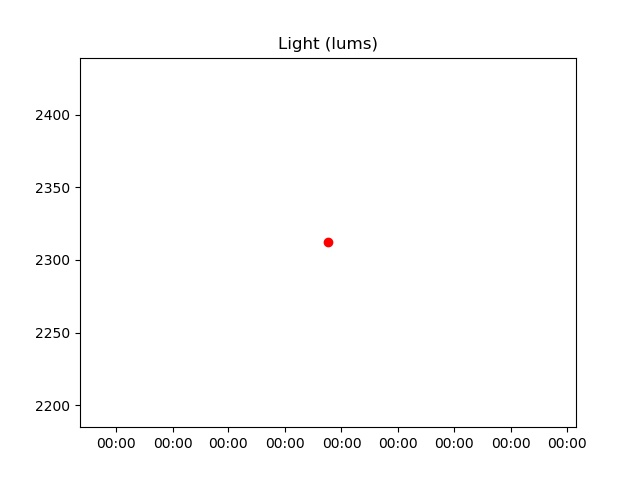
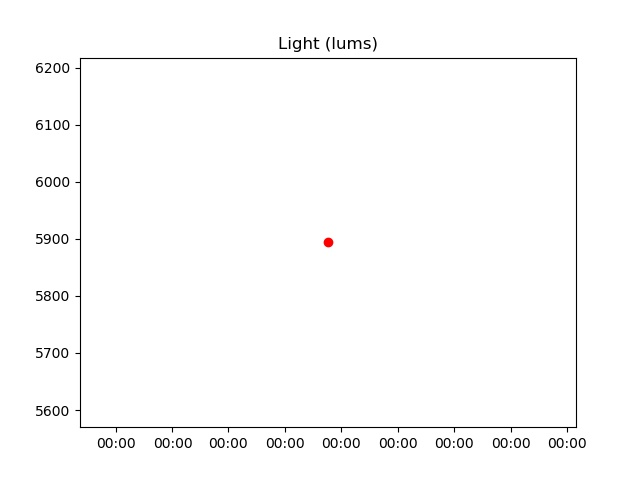
adding server query to images to avoid bad cacheing

diff --git a/templates/maindisplay.html b/templates/maindisplay.html
@@ -21,8 +21,8 @@
 			<li>Humidity: {{ datadic.hum }}</li>
 			<li>Temperature: {{ datadic.temp }}</li>
 		</ul>
-		<img src="/static/images/Light.jpeg" ALT="Light Plot">
-		<img src="/static/images/Hum.jpeg" ALT="Hum Plot">
-		<img src="/static/images/Temps.jpeg" ALT="Temp Plot">
+		{% for pic in piclist %}
+		<img src={{pic}} ALT="">
+		{% endfor %}
 	</body>
 </html>

diff --git a/home.py b/home.py
@@ -1,11 +1,18 @@
 import json
+import time
 from flask import Flask, render_template
 
 def home():
     title = 'Home'
     datadic = {}
+    now = time.time()
+    dstring = '/static/images/'
+    qstring = '?' + str(time.time())
+    piclist = [dstring + 'Light.jpeg'+qstring,
+               dstring + 'Hum.jpeg'+qstring,
+               dstring + 'Temps.jpeg'+qstring]
     with open("datadic.txt") as f:
         for line in f:
            (key, val) = line.split()
            datadic[key] = val
-    return render_template('maindisplay.html', title=title, datadic=datadic)
+    return render_template('maindisplay.html', title=title, datadic=datadic, piclist=piclist)
